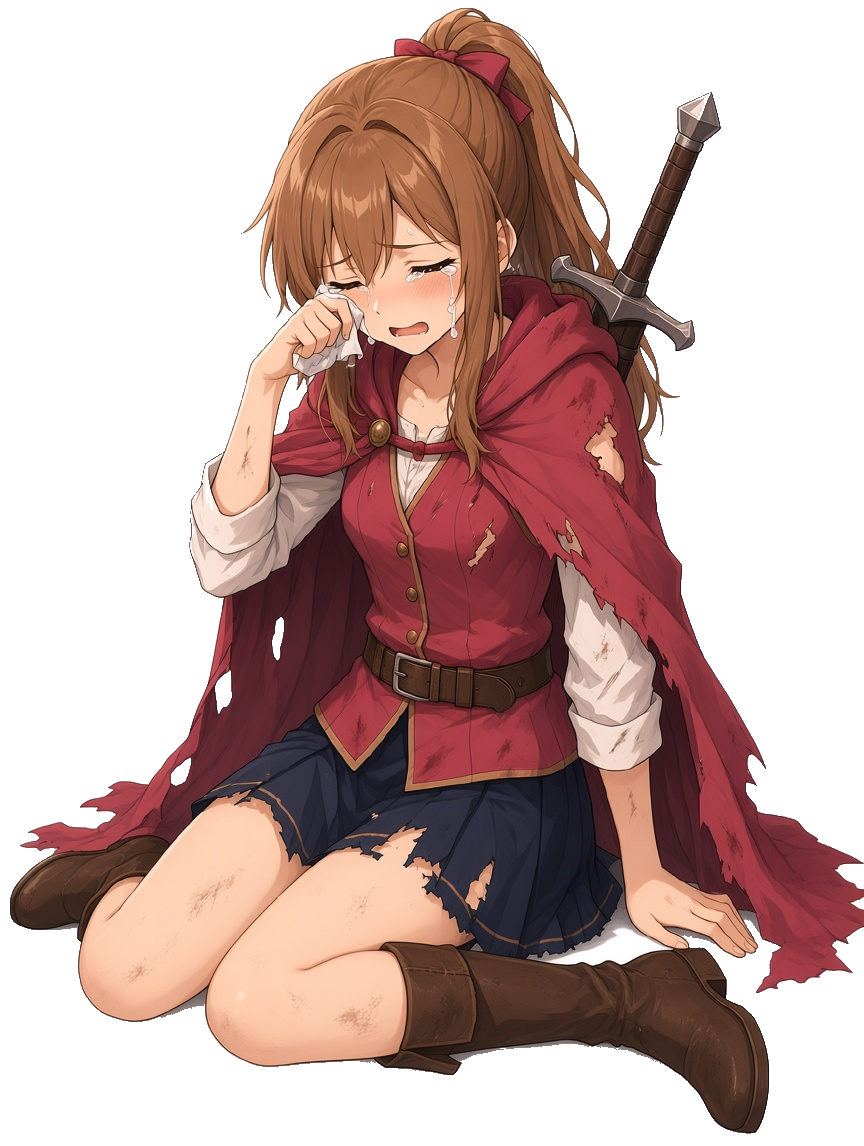
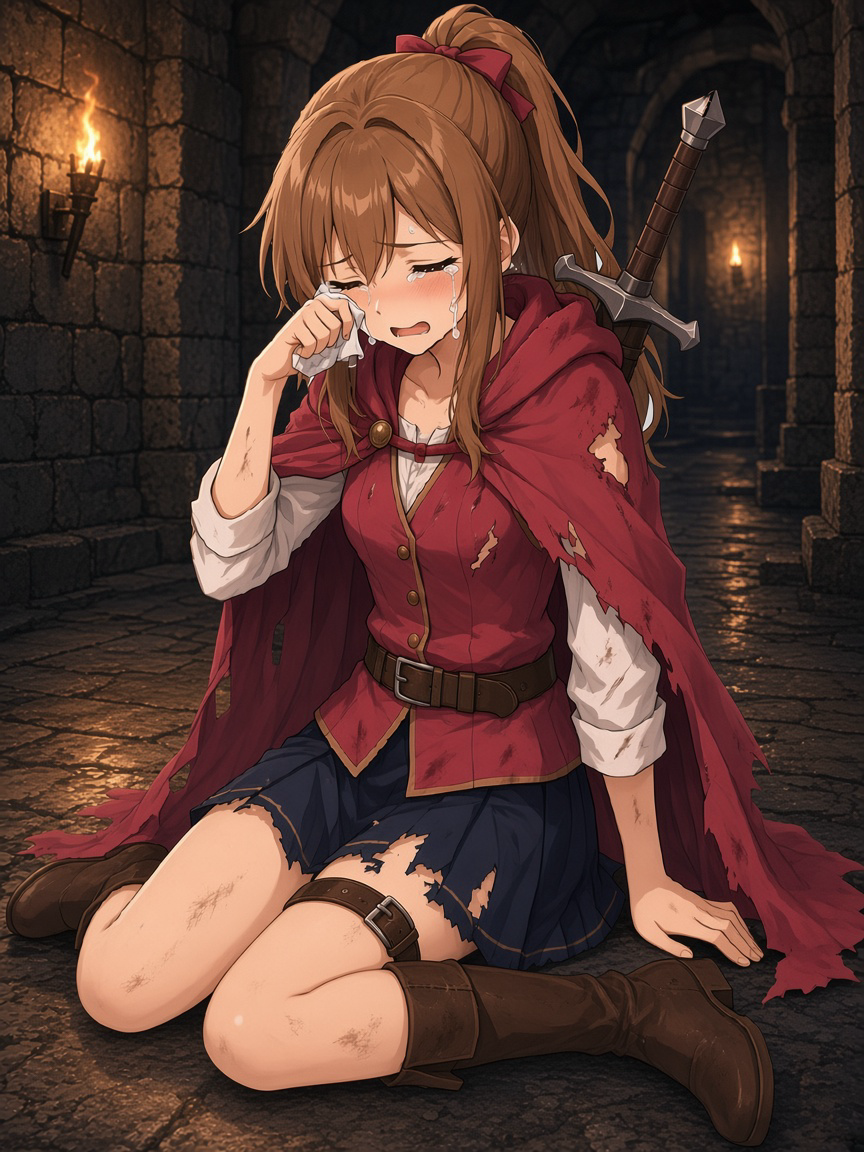
Turn the female defeat and victory into full dungeon illustrations.

diff --git a/index.html b/index.html
@@ -4462,7 +4462,7 @@
     let castShown = "";
     const CAST = [
       { name: "戦士", stand: "job-front.png?v=5", chibi: "job-warrior.png?v=9", action: "job-action.jpg?v=3", battle: "hero-shoulder.png?v=25", battleRatio: "864 / 1152", defeat: "warrior-defeat.png?v=3", victory: "warrior-victory.png?v=3" },
-      { name: "女の戦士", stand: "girl-front.png?v=9", chibi: "job-girl.png?v=2", action: "girl-action.jpg?v=1", battle: "girl-battle.png?v=10", battleRatio: "864 / 1152", defeat: "girl-defeat.png?v=6", victory: "girl-victory.png?v=7" },
+      { name: "女の戦士", stand: "girl-front.png?v=9", chibi: "job-girl.png?v=2", action: "girl-action.jpg?v=1", battle: "girl-battle.png?v=10", battleRatio: "864 / 1152", defeat: "girl-defeat.png?v=7", victory: "girl-victory.png?v=8" },
     ];
     let heroCast = "戦士";
     function heroItem() { return castByName(heroCast); }
@@ -7439,8 +7439,8 @@
             <div class="ref-grid pose-grid">
               ${sheetFig("girl-front.png?v=9", "キャラデザ", "cut-ref")}
               ${sheetFig("girl-battle.png?v=10", "戦闘", "cut-ref")}
-              ${sheetFig("girl-defeat.png?v=6", "敗北", "cut-ref")}
-              ${sheetFig("girl-victory.png?v=7", "勝利", "cut-ref")}
+              ${sheetFig("girl-defeat.png?v=7", "敗北", "cut-ref")}
+              ${sheetFig("girl-victory.png?v=8", "勝利", "cut-ref")}
             </div>
             ${sheetBanner("girl-action.jpg?v=1", "女の戦士の一枚絵", "女の戦士の一枚絵。草原でお茶をしている")}
             <h3>ジョブ選択</h3>
